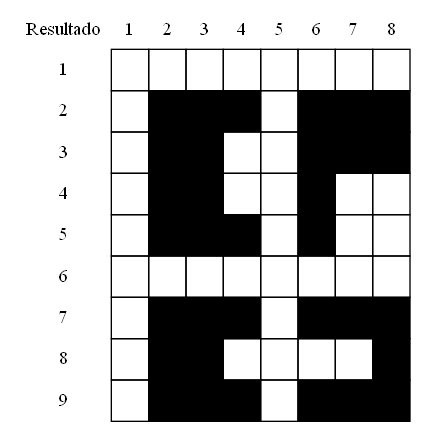
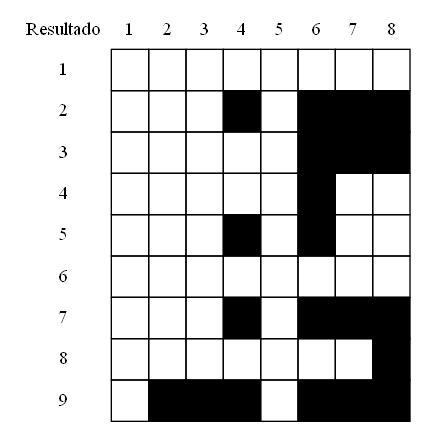
Implemente errores que se pueden generar

Changed region(s): [[0.3365, 0.2106, 0.5506, 0.6019], [0.3365, 0.6921, 0.5506, 0.9028]]

diff --git a/Reportes/Reporte.html b/Reportes/Reporte.html
@@ -31,7 +31,7 @@
             <th style="width:20%;" class="w3-center">Espacios vacíos</th>
         </tr>
         
-    <tr><td class="w3-center">05/04/2021</td><td class="w3-center">00:40:45</td><td class="w3-center">Matriz_1</td><td class="w3-center">30</td><td class="w3-center">70</td></tr><tr><td class="w3-center">05/04/2021</td><td class="w3-center">00:40:45</td><td class="w3-center">Matriz_2</td><td class="w3-center">20</td><td class="w3-center">44</td></tr><tr><td class="w3-center">05/04/2021</td><td class="w3-center">00:40:45</td><td class="w3-center">M1</td><td class="w3-center">34</td><td class="w3-center">66</td></tr><tr><td class="w3-center">05/04/2021</td><td class="w3-center">00:40:45</td><td class="w3-center">M2</td><td class="w3-center">23</td><td class="w3-center">41</td></tr><tr><td class="w3-center">05/04/2021</td><td class="w3-center">00:40:45</td><td class="w3-center">M3</td><td class="w3-center">112</td><td class="w3-center">272</td></tr><tr><td class="w3-center">05/04/2021</td><td class="w3-center">00:40:45</td><td class="w3-center">M4</td><td class="w3-center">20</td><td class="w3-center">30</td></tr><tr><td class="w3-center">05/04/2021</td><td class="w3-center">00:40:45</td><td class="w3-center">M5</td><td class="w3-center">25</td><td class="w3-center">39</td></tr><tr><td class="w3-center">05/04/2021</td><td class="w3-center">00:40:45</td><td class="w3-center">M6</td><td class="w3-center">74</td><td class="w3-center">182</td></tr><tr><td class="w3-center">05/04/2021</td><td class="w3-center">00:40:45</td><td class="w3-center">A</td><td class="w3-center">30</td><td class="w3-center">42</td></tr><tr><td class="w3-center">05/04/2021</td><td class="w3-center">00:40:45</td><td class="w3-center">B</td><td class="w3-center">12</td><td class="w3-center">60</td></tr><tr><td class="w3-center">05/04/2021</td><td class="w3-center">00:40:45</td><td class="w3-center">C</td><td class="w3-center">33</td><td class="w3-center">39</td></tr>
+    <tr><td class="w3-center">05/04/2021</td><td class="w3-center">01:51:05</td><td class="w3-center">Matriz_1</td><td class="w3-center">0</td><td class="w3-center">100</td></tr><tr><td class="w3-center">05/04/2021</td><td class="w3-center">01:51:05</td><td class="w3-center">Matriz_2</td><td class="w3-center">20</td><td class="w3-center">44</td></tr><tr><td class="w3-center">05/04/2021</td><td class="w3-center">01:51:05</td><td class="w3-center">M1</td><td class="w3-center">34</td><td class="w3-center">66</td></tr><tr><td class="w3-center">05/04/2021</td><td class="w3-center">01:51:05</td><td class="w3-center">M2</td><td class="w3-center">23</td><td class="w3-center">41</td></tr><tr><td class="w3-center">05/04/2021</td><td class="w3-center">01:51:05</td><td class="w3-center">M3</td><td class="w3-center">112</td><td class="w3-center">272</td></tr><tr><td class="w3-center">05/04/2021</td><td class="w3-center">01:51:05</td><td class="w3-center">M4</td><td class="w3-center">20</td><td class="w3-center">30</td></tr><tr><td class="w3-center">05/04/2021</td><td class="w3-center">01:51:05</td><td class="w3-center">M5</td><td class="w3-center">25</td><td class="w3-center">39</td></tr><tr><td class="w3-center">05/04/2021</td><td class="w3-center">01:51:05</td><td class="w3-center">M6</td><td class="w3-center">74</td><td class="w3-center">182</td></tr><tr><td class="w3-center">05/04/2021</td><td class="w3-center">01:51:05</td><td class="w3-center">A</td><td class="w3-center">30</td><td class="w3-center">42</td></tr><tr><td class="w3-center">05/04/2021</td><td class="w3-center">01:51:05</td><td class="w3-center">B</td><td class="w3-center">12</td><td class="w3-center">60</td></tr>
     </table>
    </div><br><br>
 
@@ -46,7 +46,7 @@
         <th style="width:25%;" class="w3-center">Tipo de operación</th>
         <th style="width:25%;" class="w3-center">Matrices</th>
       </tr>
-    <tr><td class="w3-center">05/04/2021</td><td class="w3-center">00:40:19</td><td class="w3-center">Rotación horizontal</td><td class="w3-center">Matriz_1</td></tr><tr><td class="w3-center">05/04/2021</td><td class="w3-center">00:40:22</td><td class="w3-center">Transpuesta</td><td class="w3-center">Matriz_2</td></tr><tr><td class="w3-center">05/04/2021</td><td class="w3-center">00:40:33</td><td class="w3-center">Unión A, B</td><td class="w3-center">A, B</td></tr>
+    <tr><td class="w3-center">05/04/2021</td><td class="w3-center">01:51:02</td><td class="w3-center">Limpiar zona</td><td class="w3-center">Matriz_1</td></tr>
     </table>
   </div><br><br>
 
@@ -62,7 +62,7 @@
         <th style="width:25%;" class="w3-center">Tipo de operación</th>
         <th style="width:25%;" class="w3-center">Matrices</th>
       </tr>
-    
+    <tr><td class="w3-center">05/04/2021</td><td class="w3-center">01:51:02</td><td class="w3-center">Datos fuera del rango</td><td class="w3-center">Limpiar zona</td><td class="w3-center">Matriz_1</td></tr>
     </table>
     </div><br><br>
     </body>
